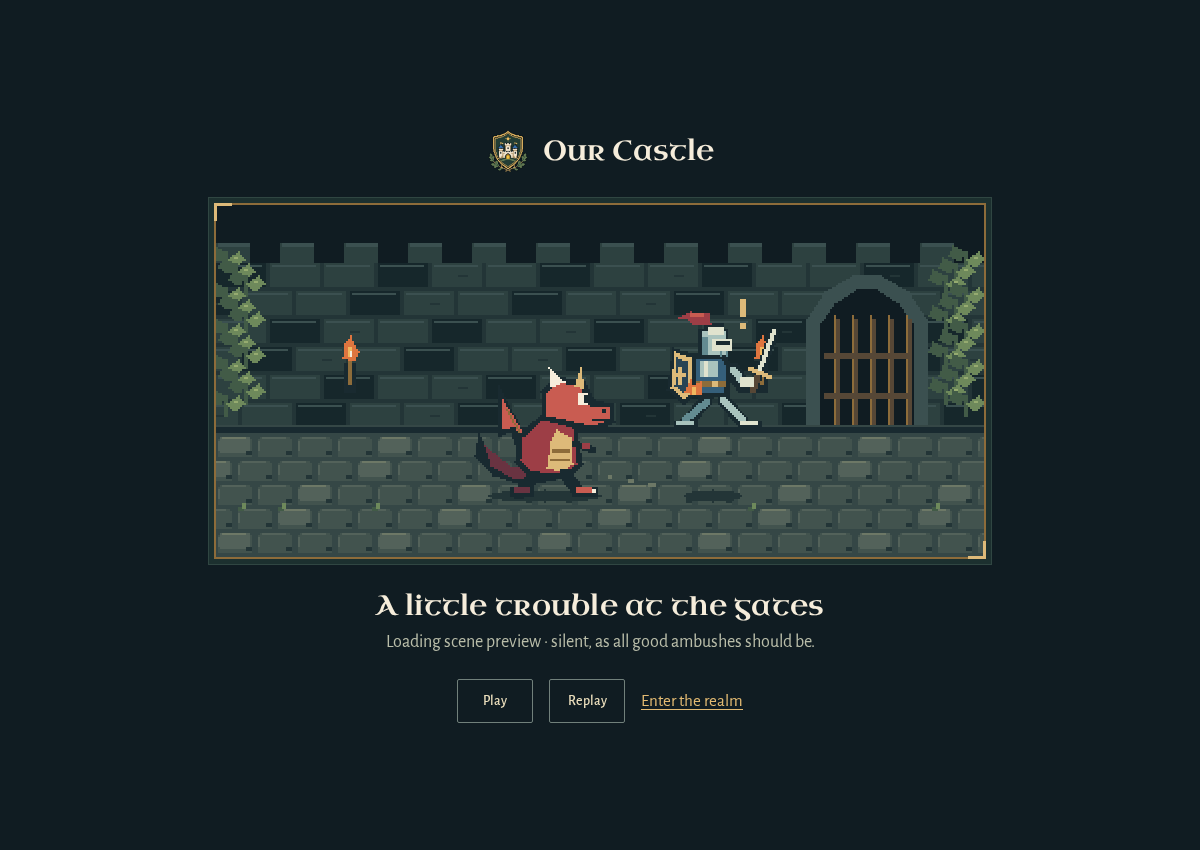
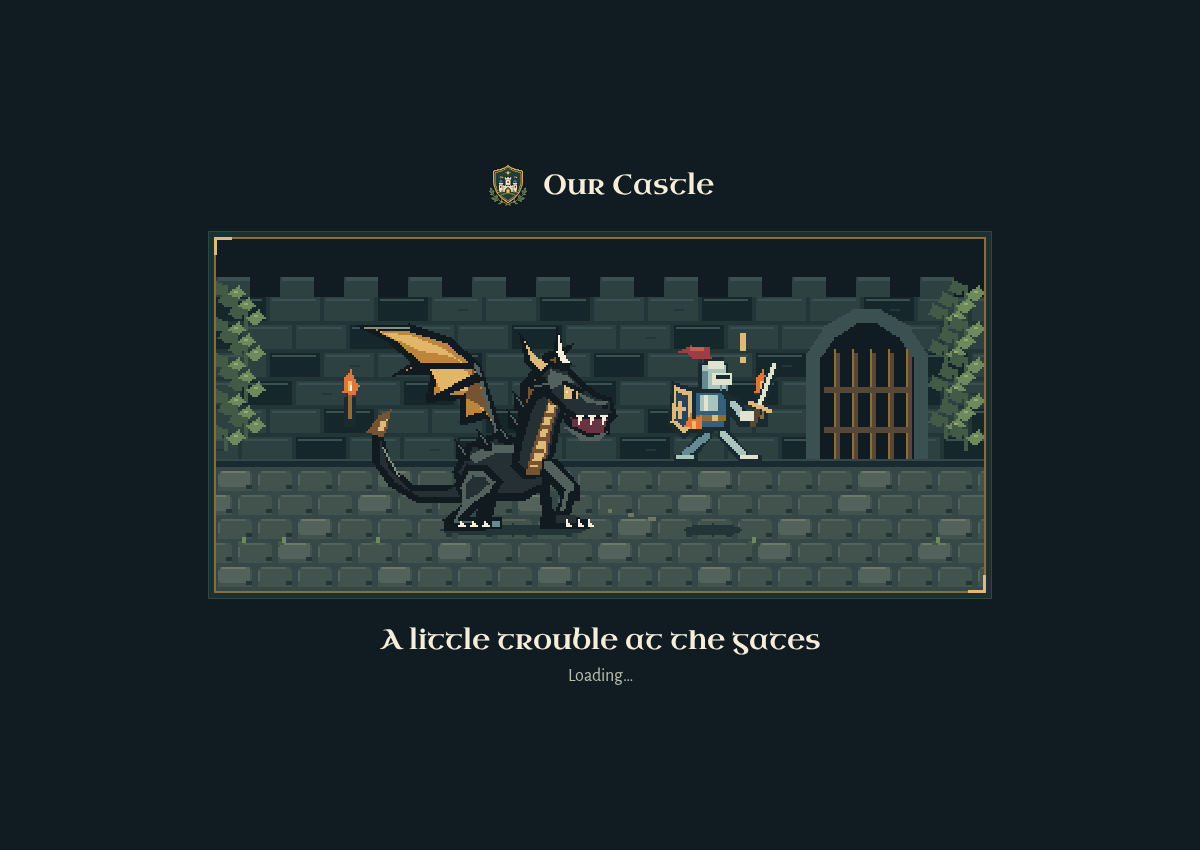
Redraw a full winged dragon and use the requested loading copy

diff --git a/src/ui/dragon-chase.js b/src/ui/dragon-chase.js
@@ -10,6 +10,8 @@ const C = {
   steel: '#a9c3bd', steelLight: '#e0e3ce', steelDark: '#638b91', blue: '#355f7a', blueDark: '#294454',
   gold: '#ddba79', goldDark: '#8d6c3a', red: '#9d3e46', redLight: '#c95c51', redDark: '#693341',
   ember: '#de753f', flame: '#f0b85f', ivory: '#f6eddb', wood: '#564736',
+  scale: '#253034', scaleLight: '#52615e', scaleEdge: '#849082', scaleDark: '#111a1e',
+  wing: '#bc843c', wingLight: '#e1b668', wingDark: '#765331',
 };
 
 export function chasePose(milliseconds) {
@@ -17,7 +19,7 @@ export function chasePose(milliseconds) {
   const hop = t > 3.45 && t < 4.1 ? Math.sin((t - 3.45) / .65 * Math.PI) * 31 : 0;
   const knightX = t < 1.5 ? -28 + t / 1.5 * 199
     : t < 3.45 ? 171 + (t - 1.5) / 1.95 * 41 : 212 + (t - 3.45) / 2.15 * 248;
-  const dragonX = t < 3.45 ? knightX - 88 : 124 + (t - 3.45) / 2.9 * 326;
+  const dragonX = t < 3.45 ? knightX - 105 : 107 + (t - 3.45) / 2.9 * 343;
   return { knightX, dragonX, hop, breath: t > 1.8 && t < 3.55, ember: t > 3.3 && t < 3.85,
     step: Math.floor(t * 10) % 4, beat: Math.floor(t * 12),
     phase: t < 1.8 ? 'chase' : t < 3.45 ? 'shield' : t < 4.1 ? 'hop' : 'escape' };
@@ -108,33 +110,88 @@ function courtyard(p) {
 
 function dragon(p, x, y, pose) {
   const { rect, poly, line } = p;
-  const leg = [0, 5, 0, -5][pose.step], bob = pose.step % 2;
-  y += bob;
-  // Curled tail, one little wing, a round belly and stout running feet.
-  poly([[x + 5, y - 15], [x - 9, y - 12], [x - 22, y - 21], [x - 27, y - 32], [x - 29, y - 20], [x - 20, y - 10], [x - 4, y - 5], [x + 11, y - 8]], C.ink);
-  poly([[x + 5, y - 14], [x - 10, y - 14], [x - 24, y - 25], [x - 21, y - 15], [x - 9, y - 8], [x + 9, y - 9]], C.redDark);
-  poly([[x - 2, y - 27], [x - 17, y - 55], [x - 18, y - 29], [x - 11, y - 32], [x - 8, y - 23], [x + 3, y - 20]], C.ink);
-  poly([[x - 3, y - 29], [x - 15, y - 48], [x - 15, y - 33], [x - 9, y - 35], [x - 5, y - 27]], C.redLight);
-  line(x - 13, y - 43, x - 5, y - 29, 1, C.goldDark);
-  poly([[x - 7, y - 31], [x + 7, y - 43], [x + 21, y - 37], [x + 25, y - 16], [x + 18, y - 8], [x - 1, y - 8], [x - 9, y - 17]], C.ink);
-  poly([[x - 5, y - 29], [x + 7, y - 40], [x + 20, y - 35], [x + 22, y - 16], [x + 16, y - 11], [x, y - 11], [x - 6, y - 18]], C.red);
-  poly([[x + 12, y - 33], [x + 19, y - 29], [x + 20, y - 16], [x + 14, y - 12], [x + 7, y - 14], [x + 9, y - 27]], C.gold);
-  rect(x + 10, y - 23, 9, 2, C.goldDark); rect(x + 9, y - 18, 10, 1, C.goldDark);
-  line(x - 1, y - 12, x - 4 - leg, y - 3, 5, C.ink);
-  rect(x - 6 - leg, y - 4, 12, 5, C.ink); rect(x - 4 - leg, y - 4, 8, 3, C.redDark);
-  line(x + 14, y - 13, x + 16 + leg, y - 4, 5, C.ink);
-  rect(x + 15 + leg, y - 4, 13, 5, C.ink); rect(x + 17 + leg, y - 4, 8, 3, C.redLight);
-  rect(x + 25 + leg, y - 3, 2, 2, C.ivory);
-  // Friendly, broad muzzle and a curious eye. The dragon is only a little taller.
-  poly([[x + 5, y - 38], [x + 4, y - 52], [x + 12, y - 60], [x + 26, y - 57], [x + 31, y - 48], [x + 40, y - 46], [x + 41, y - 37], [x + 31, y - 32], [x + 20, y - 34]], C.ink);
-  poly([[x + 7, y - 40], [x + 7, y - 51], [x + 13, y - 57], [x + 24, y - 54], [x + 28, y - 45], [x + 38, y - 44], [x + 38, y - 38], [x + 30, y - 35], [x + 21, y - 37]], C.redLight);
-  poly([[x + 9, y - 54], [x + 8, y - 64], [x + 16, y - 57]], C.ivory);
-  poly([[x + 21, y - 55], [x + 24, y - 64], [x + 26, y - 53]], C.gold);
-  rect(x + 23, y - 51, 5, 6, C.ivory); rect(x + 26, y - 50, 2, 4, C.ink);
-  rect(x + 35, y - 43, 2, 2, C.ink);
-  rect(x + 30, y - 38, 9, pose.breath ? 4 : 1, C.ink);
-  if (pose.breath) rect(x + 34, y - 38, 3, 1, C.ivory);
-  line(x + 20, y - 27, x + 29, y - 24, 3, C.ink); rect(x + 25, y - 26, 4, 3, C.red);
+  const leg = [0, 5, 0, -5][pose.step], flap = [0, 2, 0, -2][pose.step];
+  y += pose.step % 2;
+  const shape = (points, color) => poly(points.map(([a, b]) => [x + a, y + b]), color);
+  const r = (a, b, w, h, color) => rect(x + a, y + b, w, h, color);
+  const stroke = (a, b, c, d, w, color) => line(x + a, y + b, x + c, y + d, w, color);
+  const wing = (points, color) => shape(points.map(([a, b]) => [a, b + flap * Math.max(0, (-b - 45) / 60)]), color);
+
+  // A long, tapering tail curls behind the hindquarters.
+  shape([[-10,-29],[-26,-22],[-43,-22],[-55,-32],[-59,-48],[-56,-57],[-64,-51],[-64,-34],[-56,-22],[-41,-13],[-20,-13],[1,-21]], C.scaleDark);
+  shape([[-14,-25],[-29,-19],[-44,-19],[-56,-30],[-60,-44],[-60,-33],[-53,-24],[-40,-16],[-21,-16],[-3,-22]], C.scale);
+  stroke(-51,-27,-59,-41,1,C.scaleEdge);
+  shape([[-59,-46],[-67,-49],[-61,-57],[-55,-60],[-57,-51]],C.wingDark);
+  shape([[-62,-49],[-60,-54],[-57,-55],[-59,-49]],C.gold);
+
+  // Four weight-bearing legs, staggered in the running gait.
+  stroke(-8,-24,-17+leg,-8,7,C.scaleDark);
+  r(-21+leg,-6,17,6,C.scaleDark); r(-9+leg,-4,4,3,C.steelDark);
+  stroke(18,-31,27-leg,-8,5,C.scaleDark);
+  r(25-leg,-6,14,6,C.scaleDark); r(35-leg,-3,3,2,C.steelDark);
+
+  // The far wing is narrower; the near wing has three ribbed, scalloped membranes.
+  wing([[7,-43],[10,-74],[22,-90],[37,-95],[28,-83],[26,-72],[20,-74],[21,-61],[14,-63],[15,-48]],C.scaleDark);
+  wing([[11,-52],[14,-73],[24,-86],[31,-90],[24,-80],[23,-75],[18,-76],[18,-64]],C.wingDark);
+  wing([[3,-44],[-10,-84],[-25,-98],[-46,-105],[-73,-104],[-57,-96],[-45,-85],[-55,-78],[-35,-79],[-38,-64],[-20,-66],[-21,-52],[-7,-56]],C.scaleDark);
+  wing([[-1,-48],[-14,-83],[-27,-95],[-46,-101],[-63,-102],[-52,-96],[-40,-85],[-48,-81],[-31,-82],[-34,-67],[-17,-69],[-18,-57],[-8,-60]],C.wing);
+  wing([[-61,-101],[-45,-99],[-28,-92],[-15,-82],[-24,-88],[-40,-91]],C.wingLight);
+  wing([[-36,-83],[-17,-81],[-8,-59],[-17,-70],[-30,-70]],C.wingLight);
+  wing([[-14,-82],[-2,-51],[-9,-62],[-18,-67]],C.wingDark);
+  wing([[-15,-87],[-12,-85],[3,-44],[-1,-46]],C.scaleDark);
+  wing([[-14,-85],[-11,-83],[-1,-47],[-3,-49]],C.scaleLight);
+  wing([[-14,-85],[-40,-85],[-47,-81],[-32,-82],[-13,-82]],C.scaleDark);
+  wing([[-12,-80],[-34,-68],[-34,-65],[-9,-76]],C.scaleDark);
+  stroke(-68,-103+flap,-46,-103+flap,1,C.scaleEdge);
+
+  // Low, muscular body; a plated S-shaped neck rises to the horned head.
+  shape([[-24,-29],[-17,-43],[-2,-49],[13,-45],[24,-34],[24,-22],[11,-14],[-8,-14],[-21,-19]],C.scaleDark);
+  shape([[-21,-29],[-14,-41],[-1,-46],[12,-42],[20,-33],[20,-23],[9,-18],[-7,-18],[-18,-22]],C.scale);
+  shape([[-16,-37],[-4,-43],[7,-42],[12,-38],[-2,-39],[-13,-33]],C.scaleLight);
+  shape([[7,-45],[11,-59],[18,-74],[28,-75],[35,-66],[30,-54],[27,-39],[22,-27],[12,-25],[5,-32]],C.scaleDark);
+  shape([[11,-44],[15,-58],[21,-71],[28,-71],[31,-65],[27,-53],[24,-38],[20,-30],[13,-29],[9,-34]],C.scale);
+  shape([[24,-65],[29,-64],[25,-50],[23,-38],[19,-28],[12,-27],[15,-38],[19,-50]],C.wingDark);
+  shape([[24,-63],[27,-62],[23,-49],[22,-39],[18,-31],[15,-32],[18,-42],[21,-53]],C.gold);
+  for (const [a,b,w] of [[22,-58,5],[20,-52,5],[18,-46,5],[16,-40,6],[14,-34,6]]) r(a,b,w,2,C.wingDark);
+  for (const [a,b] of [[13,-62],[10,-53],[5,-46],[-5,-43],[-16,-38]]) {
+    shape([[a,b],[a-7,b-7],[a-6,b+2],[a,b+4]],C.scaleDark);
+    stroke(a-5,b-4,a-2,b,1,C.scaleLight);
+  }
+
+  // Thick hind thigh, bent hock and three pale claws; a separate foreleg reaches ahead.
+  shape([[-17,-33],[-7,-32],[1,-24],[-3,-17],[-12,-11],[-11-leg,-6],[-3-leg,-4],[-3-leg,1],[-23-leg,1],[-24-leg,-5],[-19,-13],[-23,-22]],C.scaleDark);
+  shape([[-16,-29],[-9,-29],[-3,-24],[-6,-19],[-15,-13],[-17-leg,-5],[-10-leg,-4],[-19-leg,-3],[-19,-13],[-20,-21]],C.scaleLight);
+  shape([[-14,-27],[-8,-26],[-6,-23],[-12,-18],[-18,-15],[-17,-23]],C.scale);
+  for (const a of [-15,-9,-3]) shape([[a-leg,-4],[a+3-leg,-1],[a-2-leg,-1]],C.ivory);
+  stroke(21,-35,27+leg,-22,8,C.scaleDark);
+  stroke(27+leg,-22,23+leg,-9,6,C.scaleDark);
+  stroke(22,-34,28+leg,-23,4,C.scaleLight);
+  stroke(28+leg,-21,25+leg,-10,2,C.scaleLight);
+  shape([[23+leg,-11],[30+leg,-7],[38+leg,-5],[40+leg,0],[21+leg,0],[19+leg,-5]],C.scaleDark);
+  r(23+leg,-7,10,4,C.scale);
+  for (const a of [28,34,39]) shape([[a+leg,-5],[a+3+leg,-1],[a-1+leg,-1]],C.ivory);
+
+  // Swept horns, angular brow, long muzzle, teeth and amber eye: a full dragon silhouette.
+  shape([[19,-69],[17,-79],[23,-85],[34,-82],[41,-74],[49,-68],[55,-66],[58,-57],[54,-53],[42,-53],[33,-58],[27,-63]],C.scaleDark);
+  shape([[22,-70],[21,-77],[25,-81],[33,-79],[39,-72],[47,-66],[54,-64],[55,-59],[51,-56],[41,-56],[33,-61],[28,-67]],C.scale);
+  shape([[25,-80],[33,-77],[37,-73],[30,-73],[25,-70],[22,-72]],C.scaleLight);
+  shape([[36,-70],[46,-65],[53,-64],[52,-62],[43,-64]],C.scaleLight);
+  shape([[19,-77],[12,-84],[9,-98],[13,-94],[17,-86],[25,-82]],C.scaleDark);
+  shape([[20,-79],[15,-85],[12,-94],[17,-87],[23,-83]],C.gold);
+  shape([[30,-81],[26,-88],[28,-101],[30,-95],[30,-89],[35,-83]],C.scaleDark);
+  shape([[31,-83],[28,-89],[29,-97],[31,-89],[34,-84]],C.ivory);
+  shape([[22,-76],[12,-73],[18,-69],[13,-65],[27,-67]],C.scaleDark);
+  stroke(17,-72,24,-73,1,C.scaleLight);
+  shape([[32,-72],[39,-69],[38,-65],[32,-66]],C.gold);
+  r(36,-69,2,4,C.scaleDark); r(33,-69,1,1,C.ivory);
+  stroke(31,-74,40,-70,2,C.scaleDark);
+  r(51,-62,3,2,C.scaleDark);
+  const jaw = pose.breath ? 9 : 2;
+  shape([[35,-58],[45,-57],[55,-57],[54,-50+jaw],[45,-47+jaw],[34,-53+jaw],[30,-57]],C.scaleDark);
+  shape([[35,-56],[45,-55],[53,-55],[51,-50+jaw],[45,-50+jaw],[36,-54+jaw]],C.redDark);
+  shape([[34,-53+jaw],[44,-48+jaw],[53,-51+jaw],[49,-46+jaw],[40,-47+jaw],[32,-53+jaw]],C.scaleLight);
+  for (const a of [38,44,50]) shape([[a,-57],[a+3,-57],[a+1,-52]],C.ivory);
+  if (pose.breath) shape([[43,-44],[46,-48],[47,-43]],C.ivory);
 }
 
 function knight(p, x, ground, pose) {
@@ -183,11 +240,12 @@ function knight(p, x, ground, pose) {
 function flame(p, pose) {
   if (!pose.breath) return;
   const { poly, rect } = p;
-  const mouth = pose.dragonX + 39, shield = pose.knightX - 22, y = 107;
+  const mouth = pose.dragonX + 54, shield = pose.knightX - 22, y = 107;
+  const mouthY = 94 + pose.step % 2;
   const flutter = pose.beat % 2 * 2;
-  poly([[mouth, y - 4], [mouth + 10, y - 8], [shield - 5, y - 6 - flutter], [shield + 2, y - 1], [shield - 2, y + 6], [mouth + 12, y + 5], [mouth, y + 1]], C.ember);
-  poly([[mouth, y - 1], [mouth + 12, y - 4], [shield - 1, y - 2], [shield - 4, y + 3], [mouth + 12, y + 2]], C.flame);
-  rect(mouth + 2, y - 1, 12, 2, C.ivory);
+  poly([[mouth, mouthY - 3], [mouth + 10, mouthY - 2], [shield - 5, y - 6 - flutter], [shield + 2, y - 1], [shield - 2, y + 6], [mouth + 12, mouthY + 7], [mouth, mouthY + 2]], C.ember);
+  poly([[mouth, mouthY], [mouth + 12, mouthY + 1], [shield - 1, y - 2], [shield - 4, y + 3], [mouth + 12, mouthY + 5]], C.flame);
+  poly([[mouth + 1, mouthY], [mouth + 14, mouthY + 2], [mouth + 10, mouthY + 3], [mouth + 1, mouthY + 2]], C.ivory);
   // The flame visibly forks ABOVE and BELOW the shield, not through the torso.
   poly([[shield - 3, y], [shield - 1, y - 13], [shield + 7, y - 19], [shield + 18, y - 21], [shield + 12, y - 16], [shield + 5, y - 15], [shield + 2, y - 5]], C.ember);
   poly([[shield - 2, y - 4], [shield + 2, y - 13], [shield + 9, y - 17], [shield + 5, y - 12]], C.flame);
@@ -200,7 +258,7 @@ export function drawDragonChase(ctx, milliseconds = 1800) {
   const pose = chasePose(milliseconds), p = pens(ctx);
   ctx.imageSmoothingEnabled = false;
   courtyard(p);
-  p.oval(pose.dragonX + 6, 145, 28, 3, C.mortar);
+  p.oval(pose.dragonX + 6, 145, 36, 3, C.mortar);
   p.oval(pose.knightX + 1, 145, 20 - Math.round(pose.hop / 5), 3, C.mortar);
   dragon(p, Math.round(pose.dragonX), 144, pose);
   flame(p, pose);

diff --git a/src/ui/dragon-chase-preview.html b/src/ui/dragon-chase-preview.html
@@ -13,9 +13,9 @@
   <main class="realm-loader">
     <div class="realm-loader-inner">
       <p class="realm-loader-brand"><img src="../../assets/brand/our-castle/crest.webp" width="42" height="48" alt="">Our Castle</p>
-      <figure class="realm-loader-stage"><canvas width="384" height="176" role="img" aria-label="On a cobbled path, a small dragon chases a knight. Fire curls around his shield; one stray ember makes him hop and run away unharmed."></canvas></figure>
+      <figure class="realm-loader-stage"><canvas width="384" height="176" role="img" aria-label="On a cobbled path, a horned black dragon with gold-lined wings chases a knight. Fire curls around his shield; one stray ember makes him hop and run away unharmed."></canvas></figure>
       <h1 class="realm-loader-title">A little trouble at the gates</h1>
-      <p class="realm-loader-note">Loading scene preview · silent, as all good ambushes should be.</p>
+      <p class="realm-loader-note" role="status">Loading…</p>
       <div class="realm-preview-actions"><button type="button" id="chase-play" class="chip">Pause</button><button type="button" id="chase-replay" class="chip">Replay</button><a href="../../">Enter the realm</a></div>
     </div>
   </main>

diff --git a/index.html b/index.html
@@ -20,8 +20,8 @@
     <div class="realm-loader-inner">
       <p class="realm-loader-brand"><img src="assets/brand/our-castle/crest.webp" width="42" height="48" alt="">Our Castle</p>
       <figure class="realm-loader-stage"><canvas width="384" height="176" aria-hidden="true"></canvas></figure>
-      <p class="realm-loader-title" role="status">Opening the gates…</p>
-      <p class="realm-loader-note">Please mind the dragon.</p>
+      <p class="realm-loader-title">A little trouble at the gates</p>
+      <p class="realm-loader-note" role="status">Loading…</p>
     </div>
   </section>
   <a class="skip-link" href="#journey">Skip to the household journey</a>

diff --git a/docs/DRAGON-LOADING.md b/docs/DRAGON-LOADING.md
@@ -1,17 +1,17 @@
 # A little trouble at the gates
 
-The opening scene is an original pixel animation: a sword-carrying knight crosses a cobbled courtyard, a small dragon breathes around his back-mounted shield, and one stray ember prompts a startled hop and escape. There is no injury, combat outcome or sound.
+The opening scene is an original pixel animation: a sword-carrying knight crosses a cobbled courtyard, a horned black dragon breathes around his back-mounted shield, and one stray ember prompts a startled hop and escape. There is no injury, combat outcome or sound.
 
 ## Reference and direction
 
-The owner requested this scene on November 10. The primary reference is Our Castle's existing woodland, silver-and-blue knight, red-and-gold dragon portrait and gold crest. The existing images stay unchanged; the new characters and courtyard are drawn from integer pixel shapes in `src/ui/dragon-chase.js`.
+The owner requested this scene on November 10, then supplied a full-bodied black dragon with gold-lined wings as the anatomy reference. The resulting dragon has broad ribbed wings, swept horns, an angular toothed muzzle, a long plated neck, four clawed legs and a tapering tail. It replaces the earlier small red dragon. Our Castle's woodland, silver-and-blue knight and gold crest remain the palette and framing references. The existing images stay unchanged; the new characters and courtyard are drawn from integer pixel shapes in `src/ui/dragon-chase.js`.
 
 Refero research informed the presentation before implementation:
 
 - [Playdate](https://play.date), “pocket-sized exuberance,” reference `1383e2df-8a27-4b20-868e-40286effd350`: crisp miniature artwork and a small amount of live text. Its bright marketing palette and typography are not used.
 - [Tapbots](https://tapbots.com), “toys with a purpose,” reference `889337e0-2d2c-4980-a9b5-2bca2cb5394d`: a coherent character scene on a dark stage. Our scene uses the existing forest, stone, ivory and brass colors.
 
-The chosen composition is one framed courtyard beneath the existing crest, with “Opening the gates…” below it. No progress percentage is invented. The scene stays secondary to entering the actual realm.
+The chosen composition is one framed courtyard beneath the existing crest, with **“A little trouble at the gates”** and **“Loading…”** below it. Both the actual startup screen and the standalone viewing page use this exact copy; neither displays a preview/prototype caption. No progress percentage is invented. The scene stays secondary to entering the actual realm.
 
 ## Behavior
 
@@ -35,11 +35,15 @@ The initial run passed nine cases and exposed a phone media-event timing case: t
 
 `npm run check` passed the 47 original-file hashes, 90-color world palette, renderer wiring and JavaScript syntax; `git diff --check` passed. Raw local artifacts are under `test-results/dragon-loading/`, including `reduced-motion-check.log`. No human, physical-device, performance or live-provider evidence is implied.
 
-These are fixed-frame screenshots of the real preview canvas, not a recording or a claim about actual loading duration:
+After the owner's anatomy/copy correction, the affected startup and full-scene viewing cases passed on both desktop and phone (**four passes**), and the art/source guard and diff check passed again. The actual startup screenshots were inspected at 1200 × 850 and emulated 390 × 844; the reference and requested wording are reflected in both. Raw revision evidence is under `test-results/dragon-revision/`, including `browser-checks.log`.
+
+These are fixed-frame screenshots of the actual startup screen, captured while its application module is held pending, not a recording or a claim about actual loading duration:
 
 ![Fire curls around the knight's shield](evidence/dragon-loading/shield.png)
 
 ![The knight hops at a stray ember and runs away unharmed](evidence/dragon-loading/hop.png)
+
+[Phone loading screen](evidence/dragon-loading/phone.png)
 
 ## Source boundary
 
